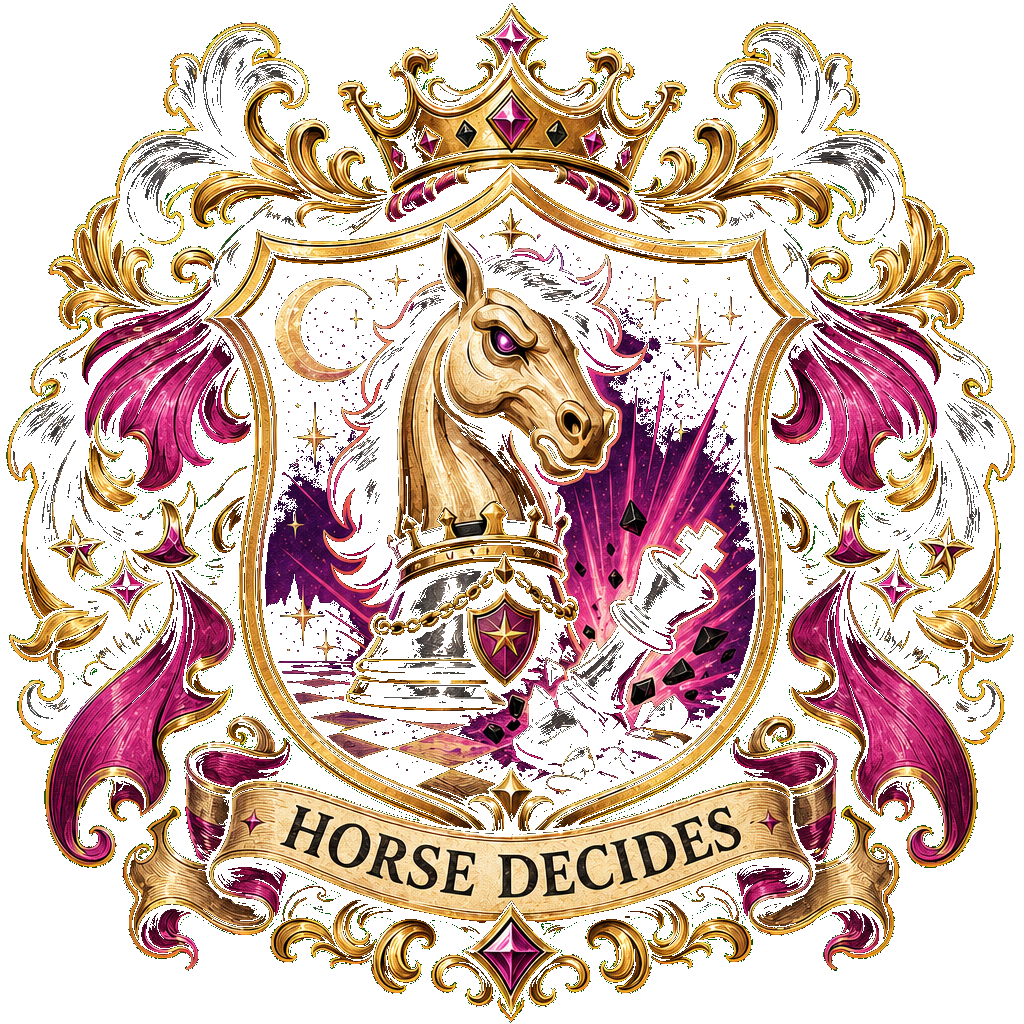
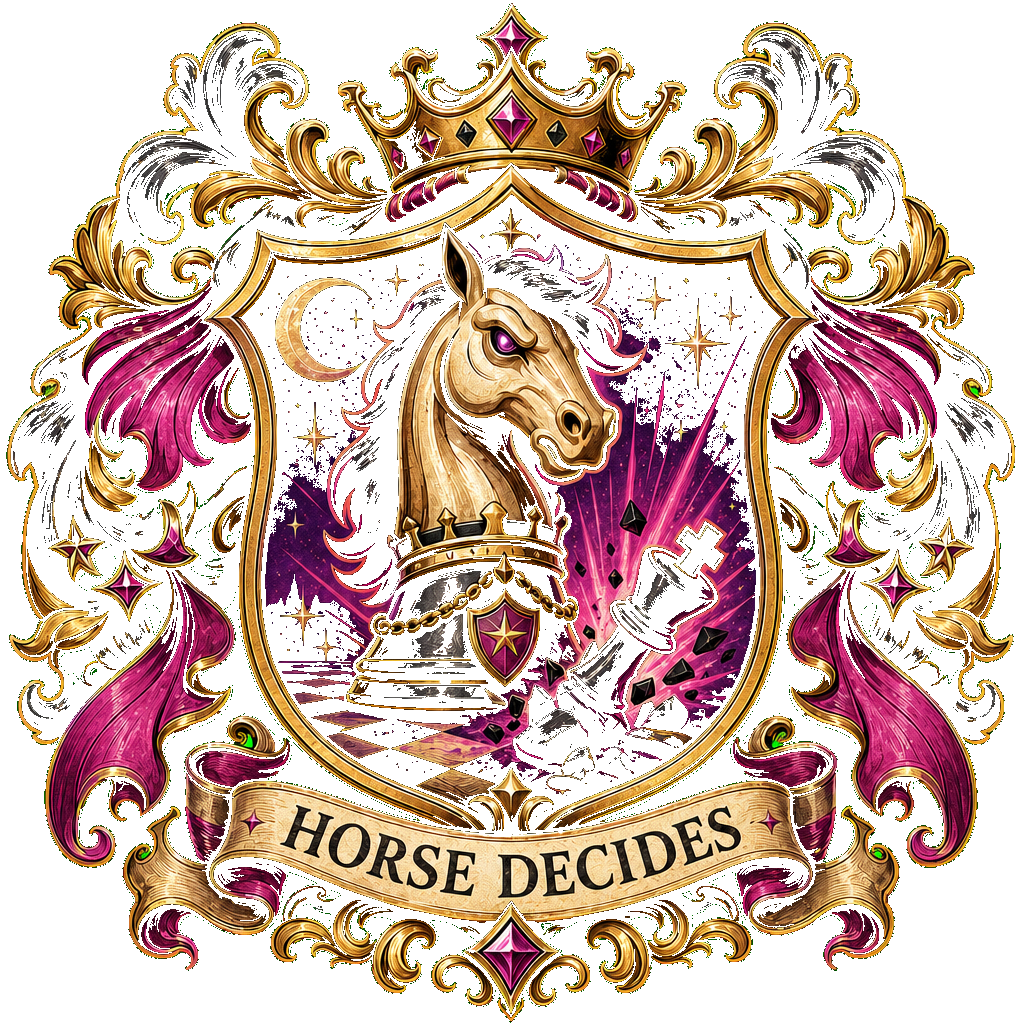
Repair SQC crest transparency masks

diff --git a/docs/SQC_ILLUSTRATED_BADGE_SET_LIVE_DEPLOY_2026-04-27.md b/docs/SQC_ILLUSTRATED_BADGE_SET_LIVE_DEPLOY_2026-04-27.md
@@ -86,3 +86,7 @@ Fix applied:
 ## Notes
 
 Two image-generation attempts aborted during asset creation; both affected prompts were retried successfully. One local smoke command initially failed because this shell did not resolve bare `wc`/`grep`; reran with `/usr/bin/wc` and `/usr/bin/grep` successfully.
+
+## 13:08 outside-only transparency repair
+
+Andreas clarified that transparency should exist only outside the crest, not inside shield/banner/interior artwork. I repaired all `/badges/v2/*.png` and `/sqc-logo-v2.png` masks so only border-connected transparent canvas remains transparent, while internal holes/panels are filled back from the source artwork. I also zeroed RGB under fully transparent pixels to avoid viewer/cache artifacts. Visual QA passed on representative queenless/no-castle/logo assets: no obvious rectangular backgrounds and no interior transparency holes. `pnpm lint` and `pnpm build` passed. Production deploy/smoke pending.
